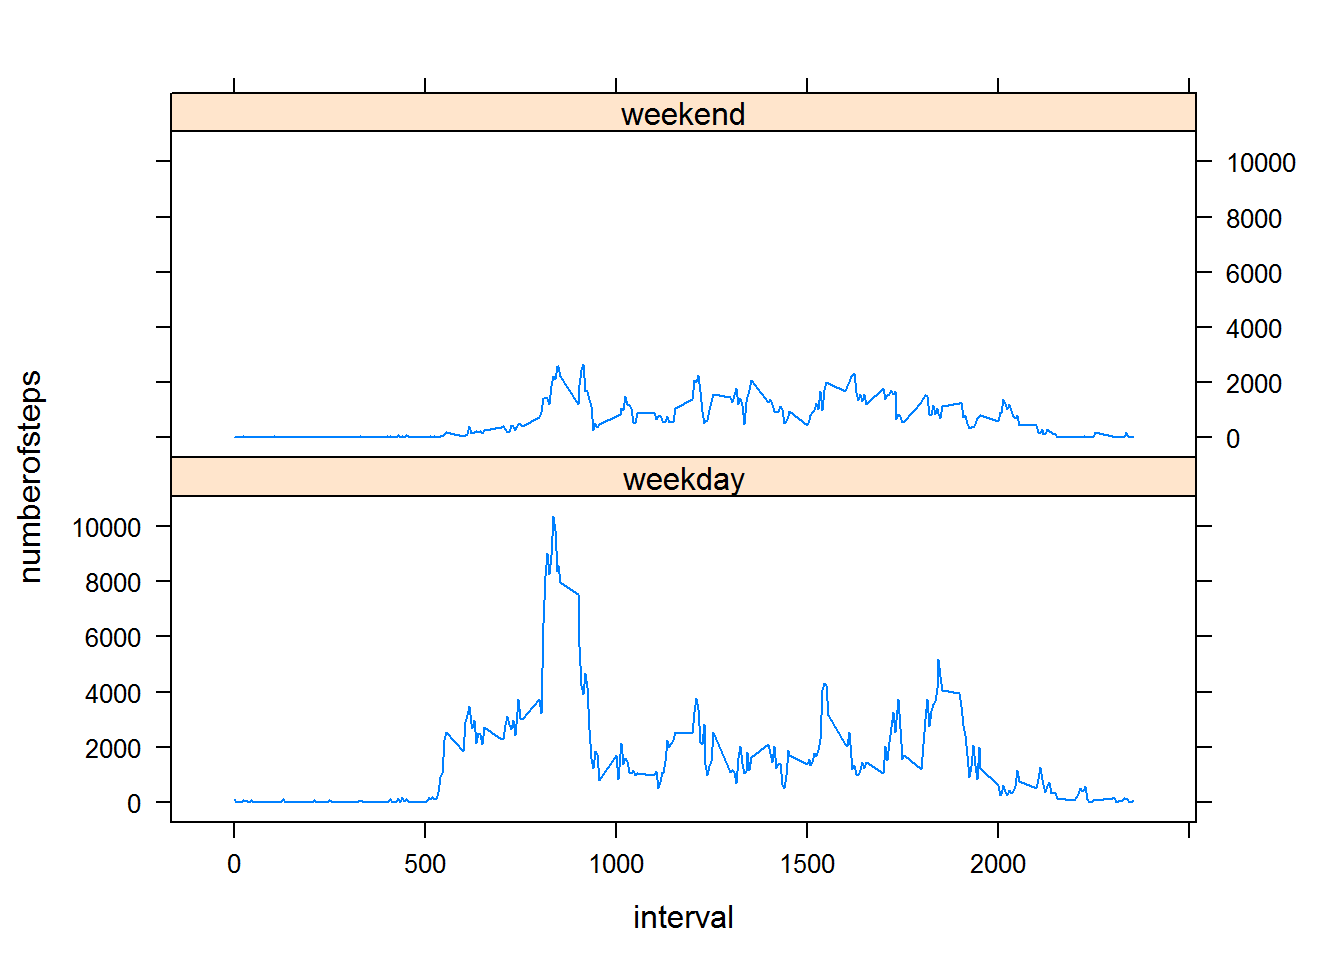
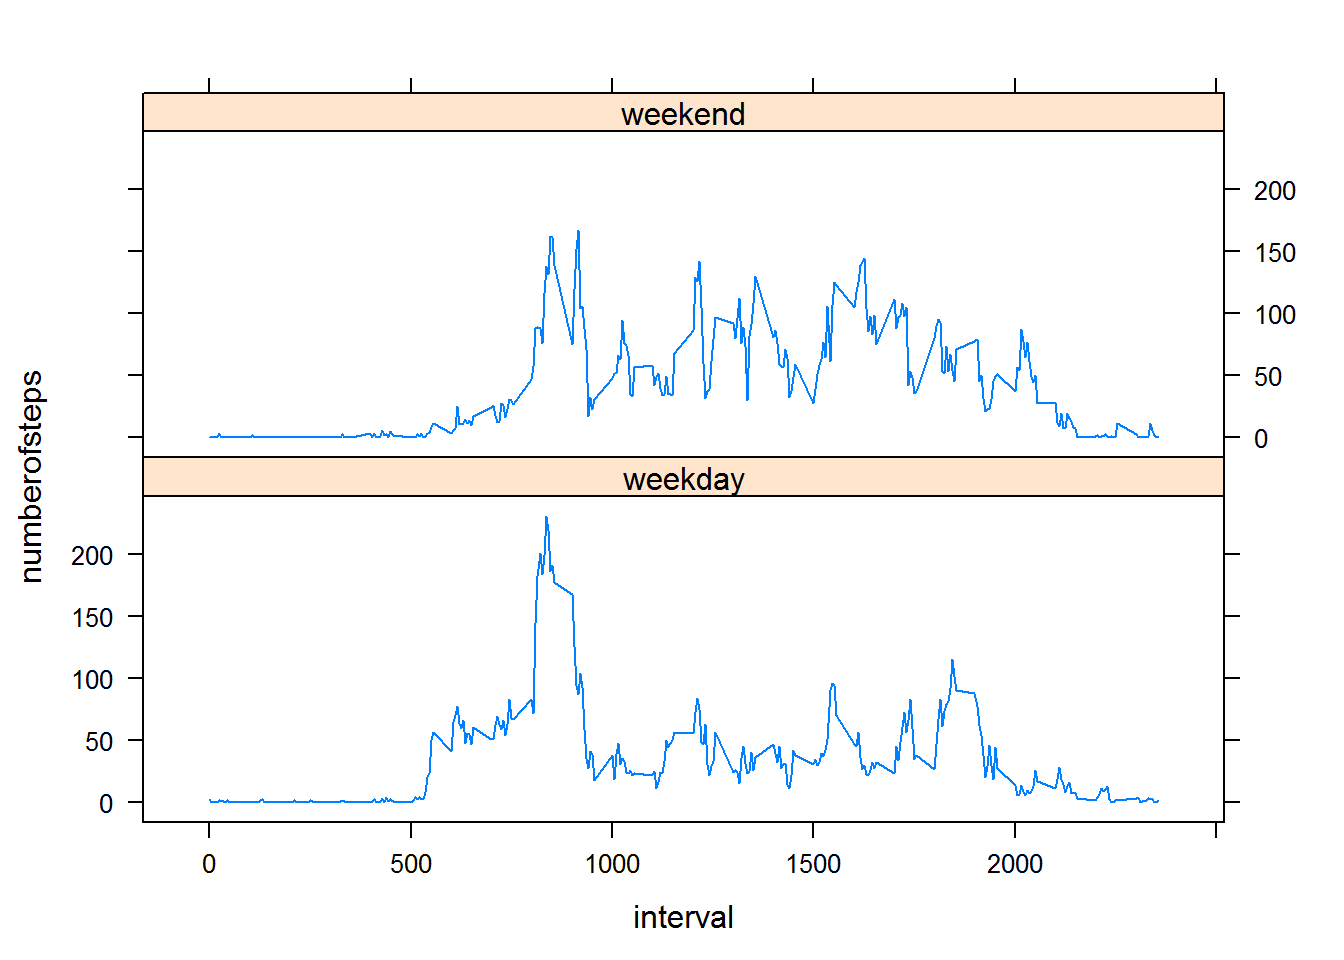
modify

diff --git a/PA1_template.html b/PA1_template.html
@@ -208,7 +208,7 @@ d_impute$weekday = as.factor(d_impute$weekday)
 
 # summrise
 d_impute_g = group_by(d_impute,weekday,interval)
-s=summarise(d_impute_g,numberofsteps=sum(steps))</code></pre>
+s=summarise(d_impute_g,numberofsteps=mean(steps))</code></pre>
 <pre class="r"><code># install 'chron' to call 'is.weekend'
 if (require(&quot;lattice&quot;)==FALSE){
     install.packages(&quot;lattice&quot;)
@@ -216,7 +216,7 @@ if (require(&quot;lattice&quot;)==FALSE){
 }</code></pre>
 <p>plot</p>
 <pre class="r"><code>xyplot(numberofsteps ~ interval | weekday,data = s, layout = c(1,2),type=&quot;l&quot;)</code></pre>
[2 lines of base64/hex data omitted]
 </div>
 
 
